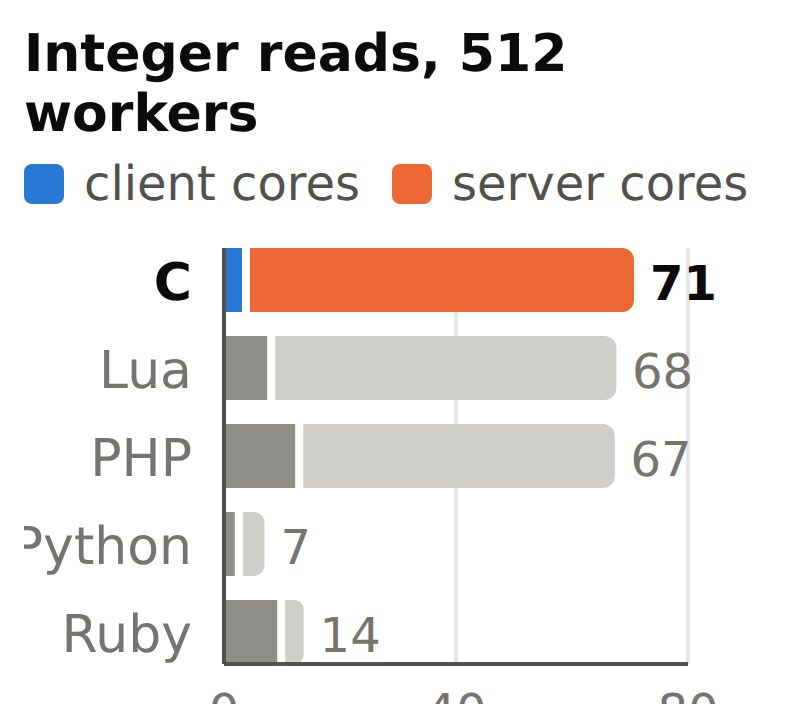
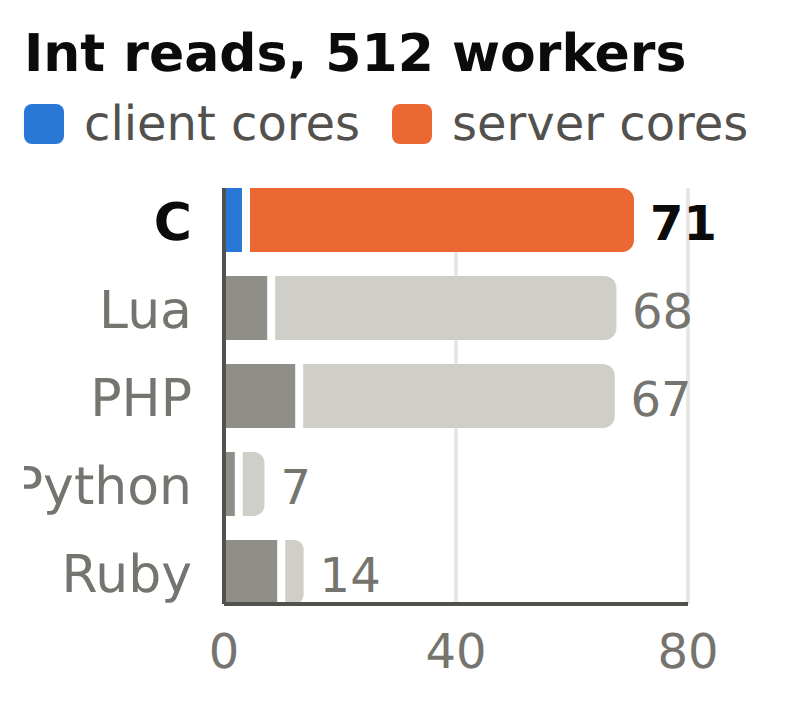
blog: shorter titles on part 2's table charts ("Int reads")
Claude-Session: https://claude.ai/code/session_01DVm3N343MAy56E6DLkPUGX

diff --git a/blog/build_charts.py b/blog/build_charts.py
@@ -376,8 +376,8 @@ def build_post2_table():
     w2 = ["c", "lua", "php", "python", "ruby"]
     w4 = ["c", "php", "go", "java", "csharp"]
     for name, title, data, hi in (
-        ("post-2-tbl-c", "Integer reads, 512 workers", rows(2, w2), "c"),
-        ("post-2-tbl-python", "Integer reads, 512 workers", rows(2, w2), "python"),
+        ("post-2-tbl-c", "Int reads, 512 workers", rows(2, w2), "c"),
+        ("post-2-tbl-python", "Int reads, 512 workers", rows(2, w2), "python"),
         ("post-2-tbl-csharp", "Blob reads, 512 workers", rows(4, w4), "csharp"),
     ):
         svg, h = mini_cores_svg(data, hi)
